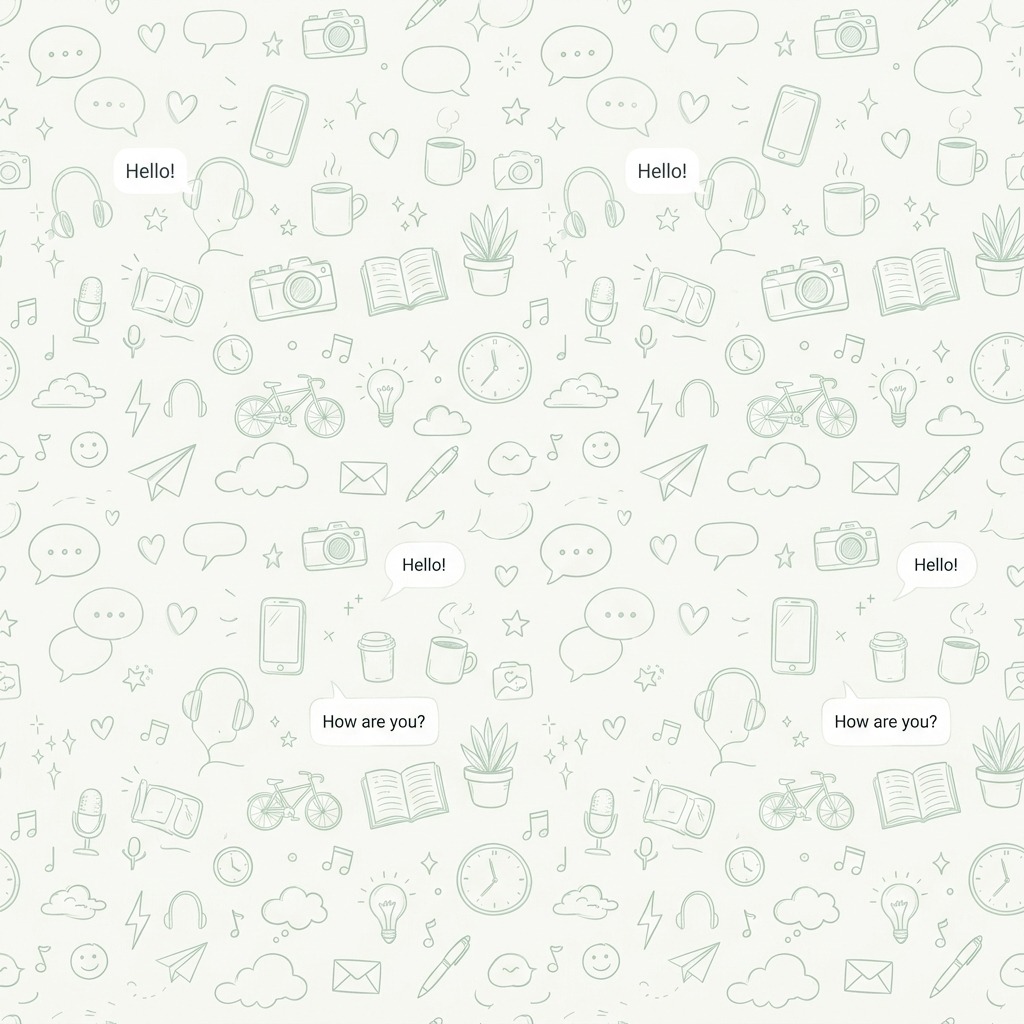
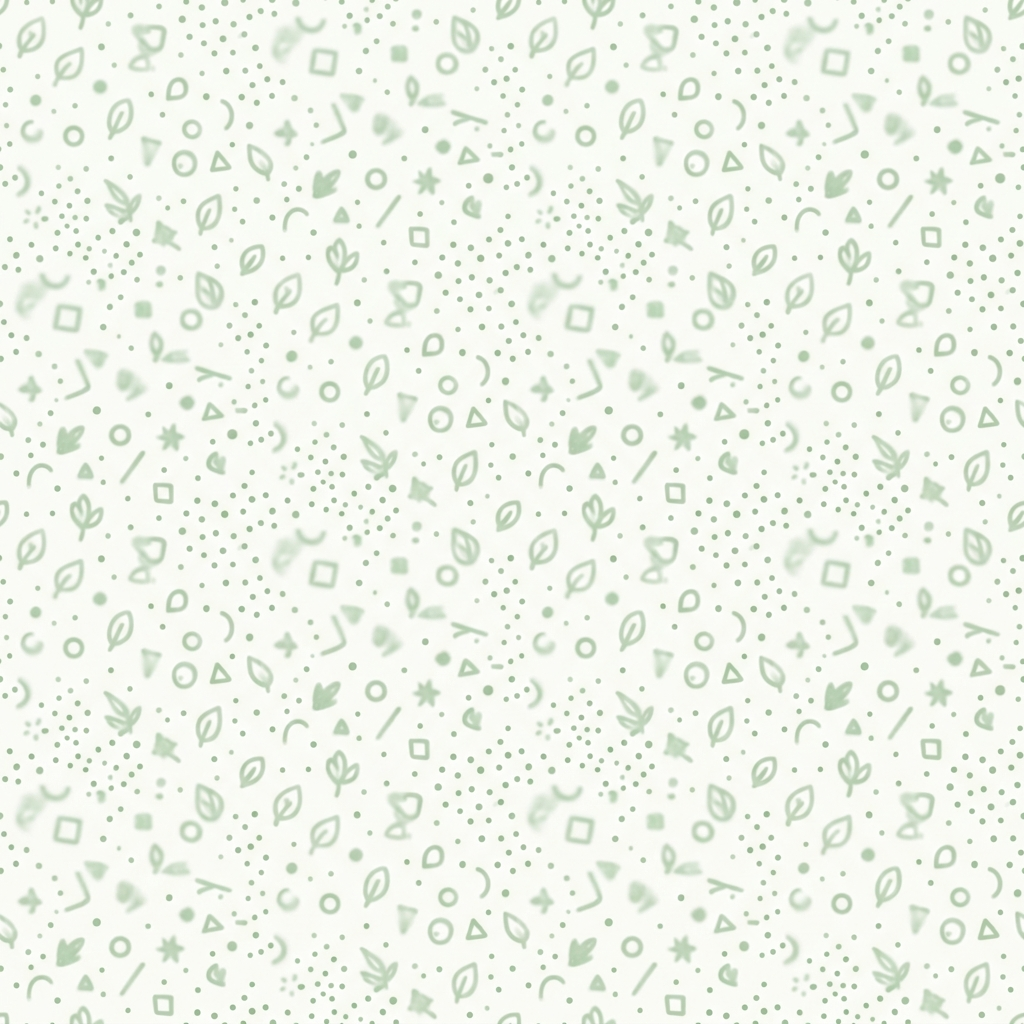
fix: chat collifing with the background

Changed region(s): [[0.0, 0.0, 1.0, 1.0]]

diff --git a/src/components/chat-header.tsx b/src/components/chat-header.tsx
@@ -32,11 +32,19 @@ export default function ChatHeader({
 }) {
   const router = useRouter();
 
+  const handleBack = () => {
+    if (router.canGoBack()) {
+      router.back();
+    } else {
+      router.replace('/');
+    }
+  };
+
   return (
     <View style={styles.container}>
       {/* ── Minimal Header ── */}
       <View style={styles.headerCore}>
-        <TouchableOpacity style={styles.backButton} onPress={() => router.back()}>
+        <TouchableOpacity style={styles.backButton} onPress={handleBack}>
           <Text style={styles.backText}>‹</Text>
         </TouchableOpacity>
         

diff --git a/src/components/chat-screen.tsx b/src/components/chat-screen.tsx
@@ -359,6 +359,7 @@ export default function ChatScreen({ role }: { role: "buyer" | "seller" }) {
         style={s.chatArea}
         source={require('../../assets/images/chat_pattern_bg.png')}
         resizeMode="cover"
+        blurRadius={6}
       >
         <FlatList
           ref={flatListRef}